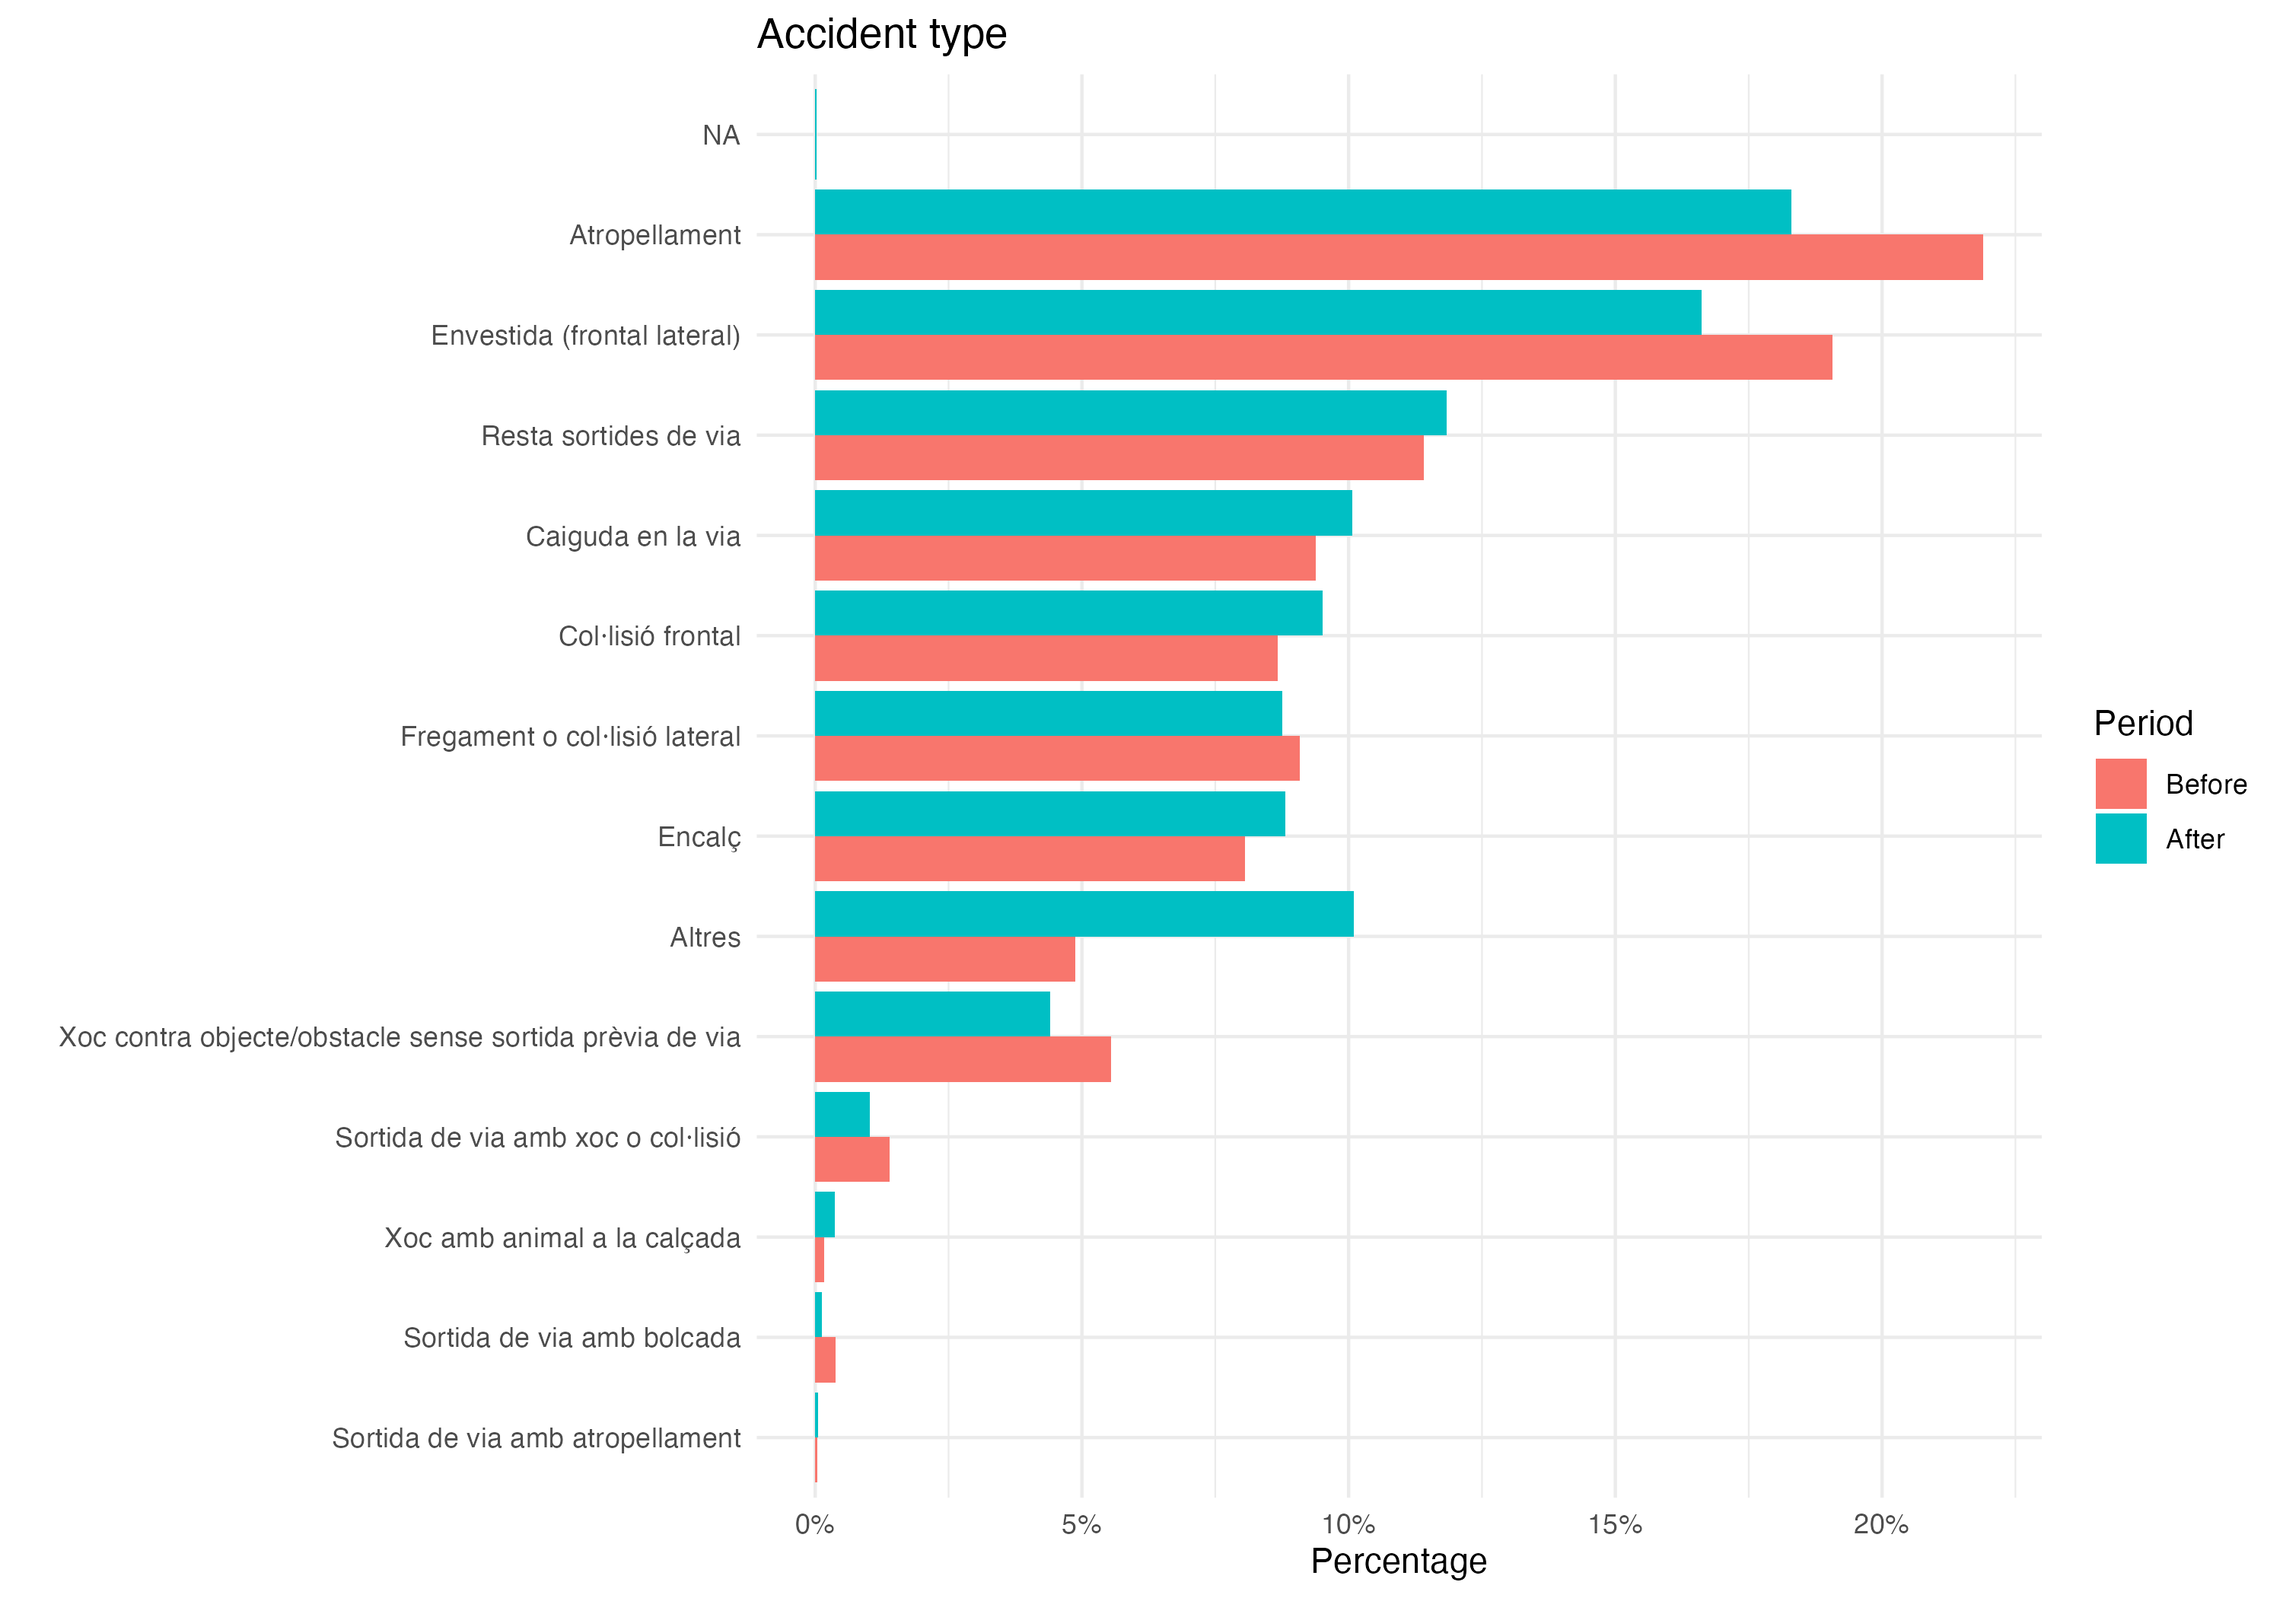
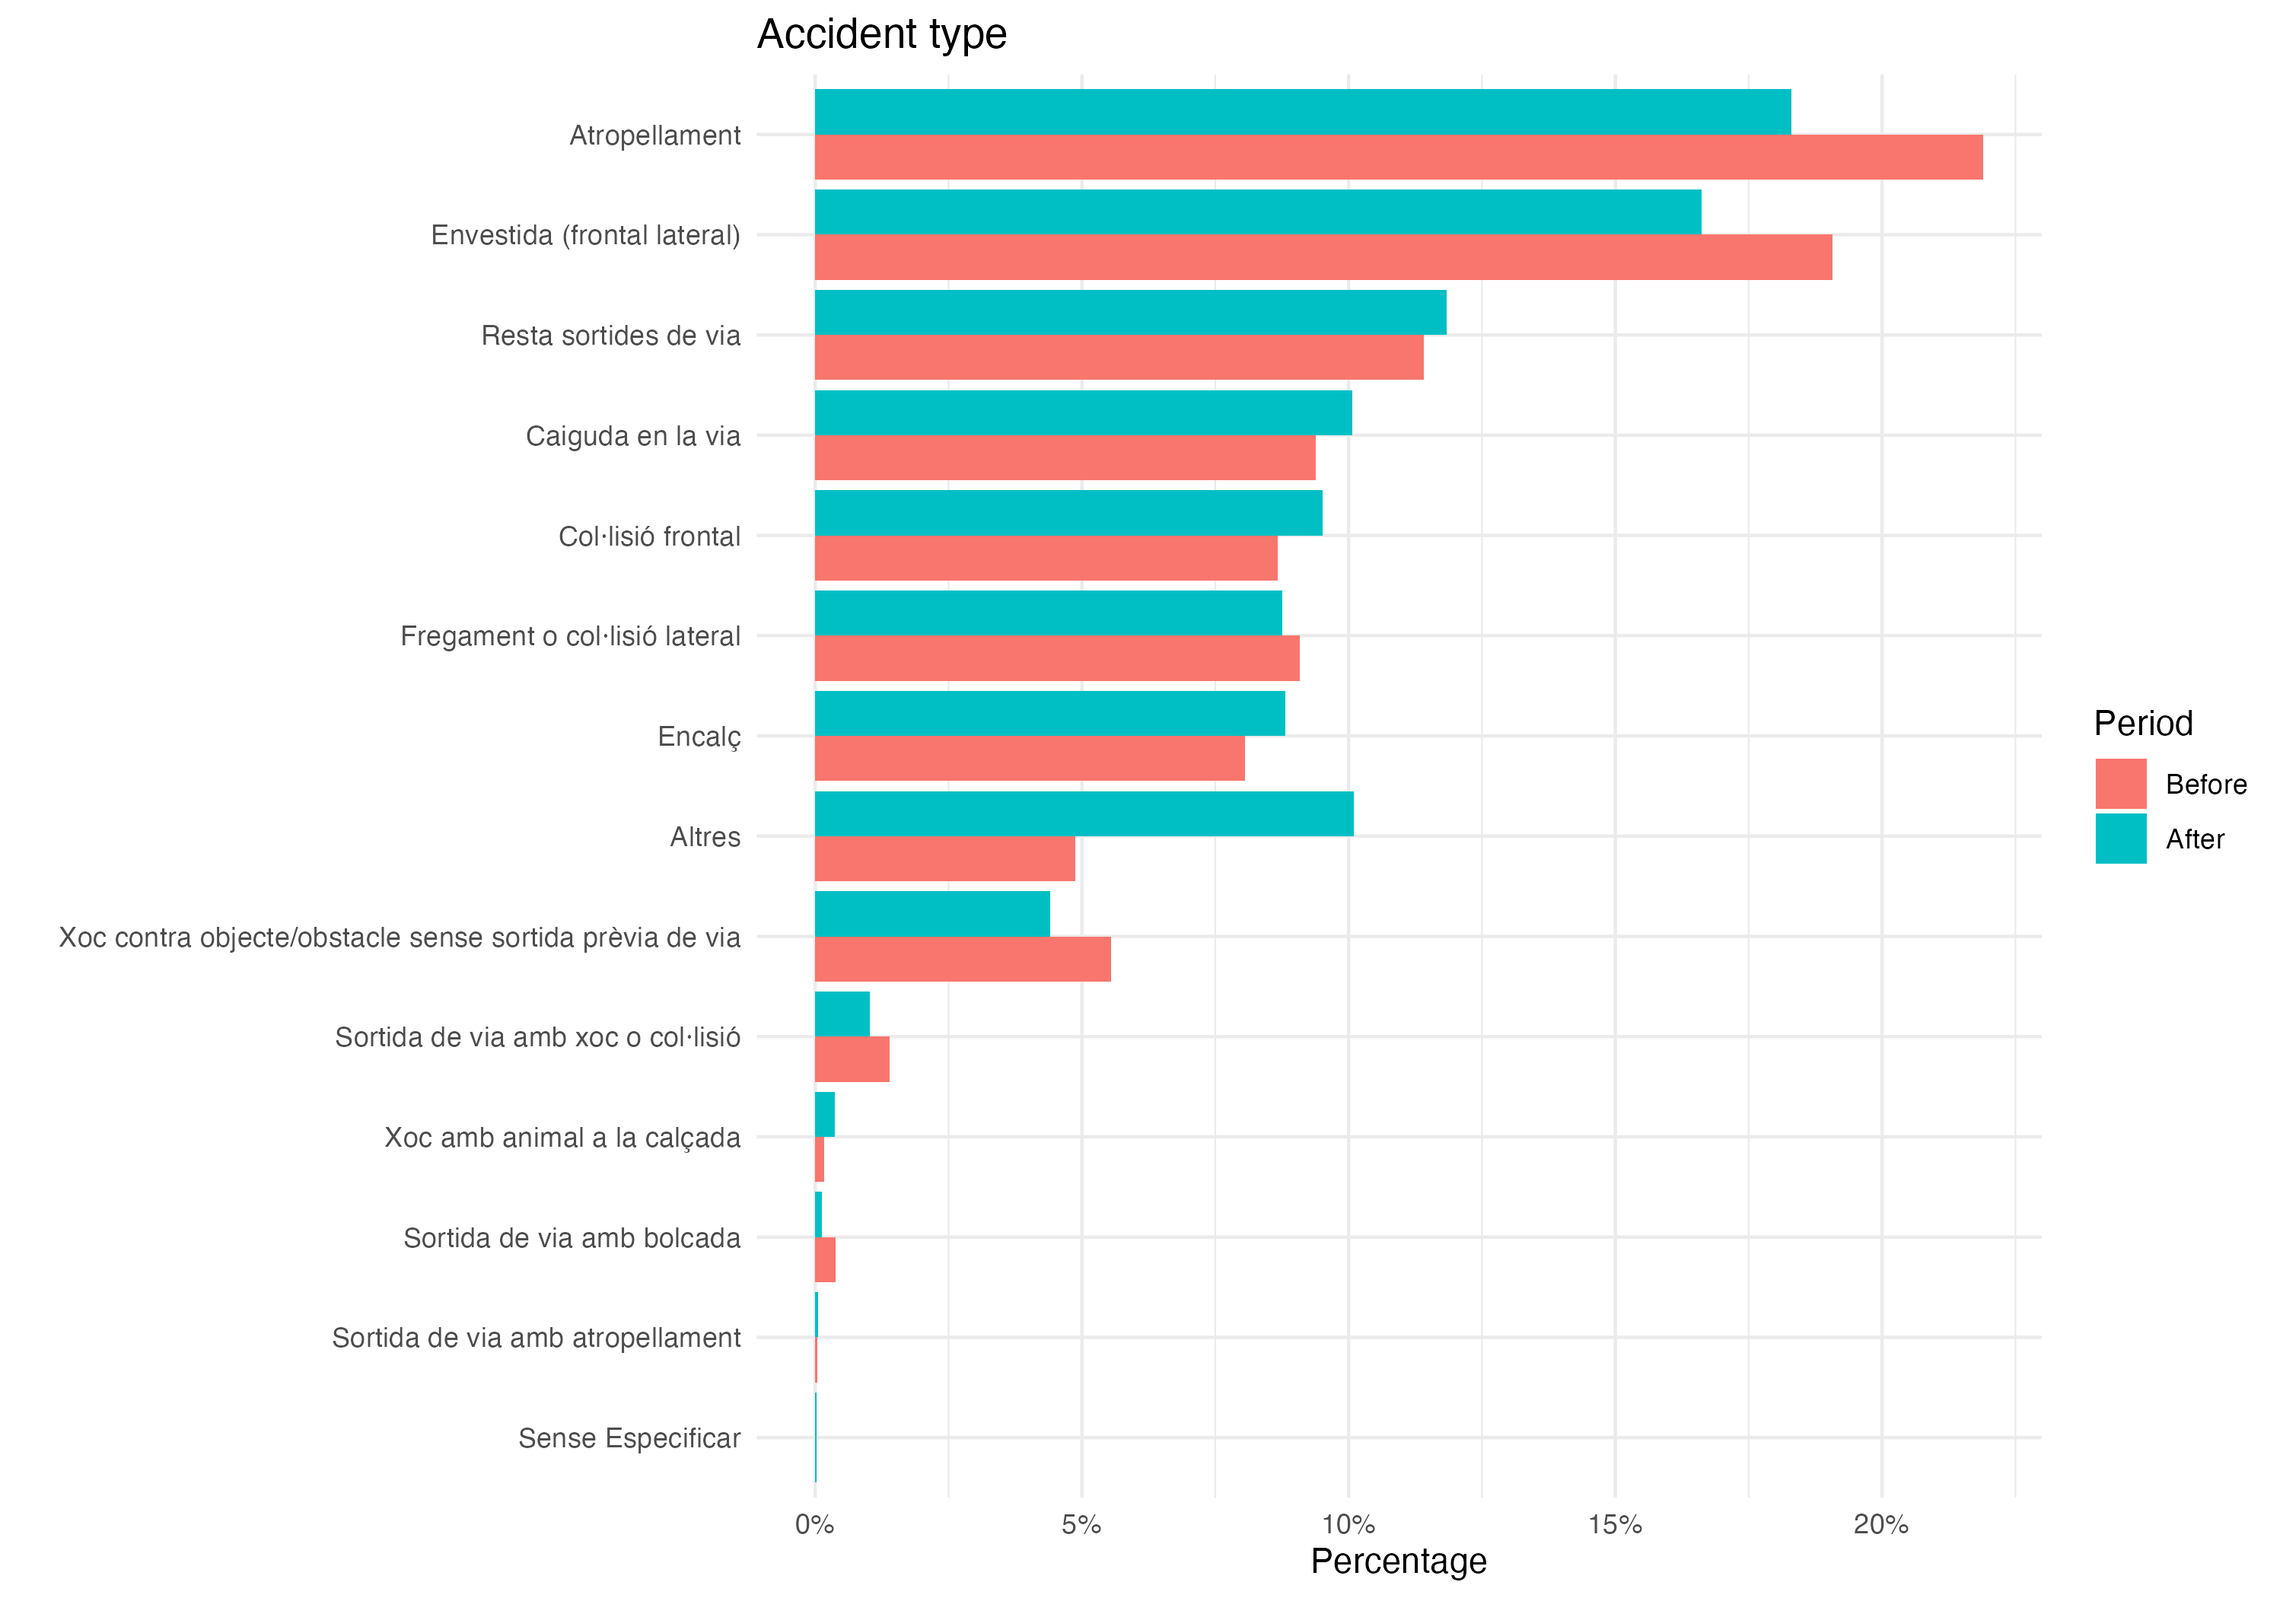
add final readme and fixes

diff --git a/README.md b/README.md
@@ -1,1 +1,140 @@
 # data-science-final-project
+# Traffic Accident Analysis Before and After Toll Removal
+
+## Project Overview
+
+This project analyzes traffic accidents occurring before and after the removal of highway tolls. The objective is to determine whether the characteristics of accidents changed following the policy intervention and to identify the variables that best explain the differences between both periods.
+
+The workflow includes:
+
+1. Data loading and preprocessing.
+2. Exploratory Data Analysis (EDA).
+3. Classification using Gradient Boosting Machines (GBM).
+4. Decision tree modeling for interpretability.
+5. Variable importance analysis.
+
+---
+
+## Project Structure
+
+```text
+.
+├── data/
+│   └── (input datasets)
+│
+├── notebooks/
+│   ├── 00_loadingData.R
+│   ├── 01_eda.R
+│   ├── 02_classifier_bgm.R
+│   ├── 03_variableDecisionModel.R
+│   └── 04_variableImportance.R
+│
+├── plots/
+│   └── eda/
+│       ├── accident_outcomes.png
+│       ├── accident_type_distribution.png
+│       ├── accidents_by_year.png
+│       ├── ...
+│
+└── README.md
+```
+
+---
+
+## Requirements
+
+Install the required R packages before running the analysis:
+
+```r
+install.packages(c(
+  "tidyverse",
+  "caret",
+  "gbm",
+  "rpart",
+  "rpart.plot",
+  "ggplot2",
+  "dplyr"
+))
+```
+
+Depending on the implementation, additional packages may be required.
+
+---
+
+## How to Run the Project
+
+### Step 1: Load and Prepare the Data
+
+Run:
+
+```r
+source("notebooks/00_loadingData.R")
+```
+
+This script loads the raw data and performs the necessary preprocessing steps.
+
+---
+
+### Step 2: Exploratory Data Analysis
+
+Run:
+
+```r
+source("notebooks/01_eda.R")
+```
+
+This script generates descriptive statistics and visualizations that are saved under:
+
+```text
+plots/eda/
+```
+
+---
+
+### Step 3: Train the GBM Classifier
+
+Run:
+
+```r
+source("notebooks/02_classifier_bgm.R")
+```
+
+The model attempts to classify accidents as occurring either before or after toll removal based on infrastructure, environmental, and accident-related characteristics.
+
+---
+
+### Step 4: Decision Tree Analysis
+
+Run:
+
+```r
+source("notebooks/03_variableDecisionModel.R")
+```
+
+This script trains an interpretable decision tree model to identify the most relevant decision rules separating the two periods.
+
+---
+
+### Step 5: Variable Importance
+
+Run:
+
+```r
+source("notebooks/04_variableImportance.R")
+```
+
+This script computes and visualizes variable importance rankings, helping identify the factors that contributed most to the classification task.
+
+---
+
+## Outputs
+
+The project produces:
+
+* Exploratory visualizations.
+* Classification performance metrics.
+* Decision tree visualizations.
+* Variable importance rankings.
+
+These outputs can be used to evaluate whether toll removal was associated with a structural change in accident characteristics.
+
